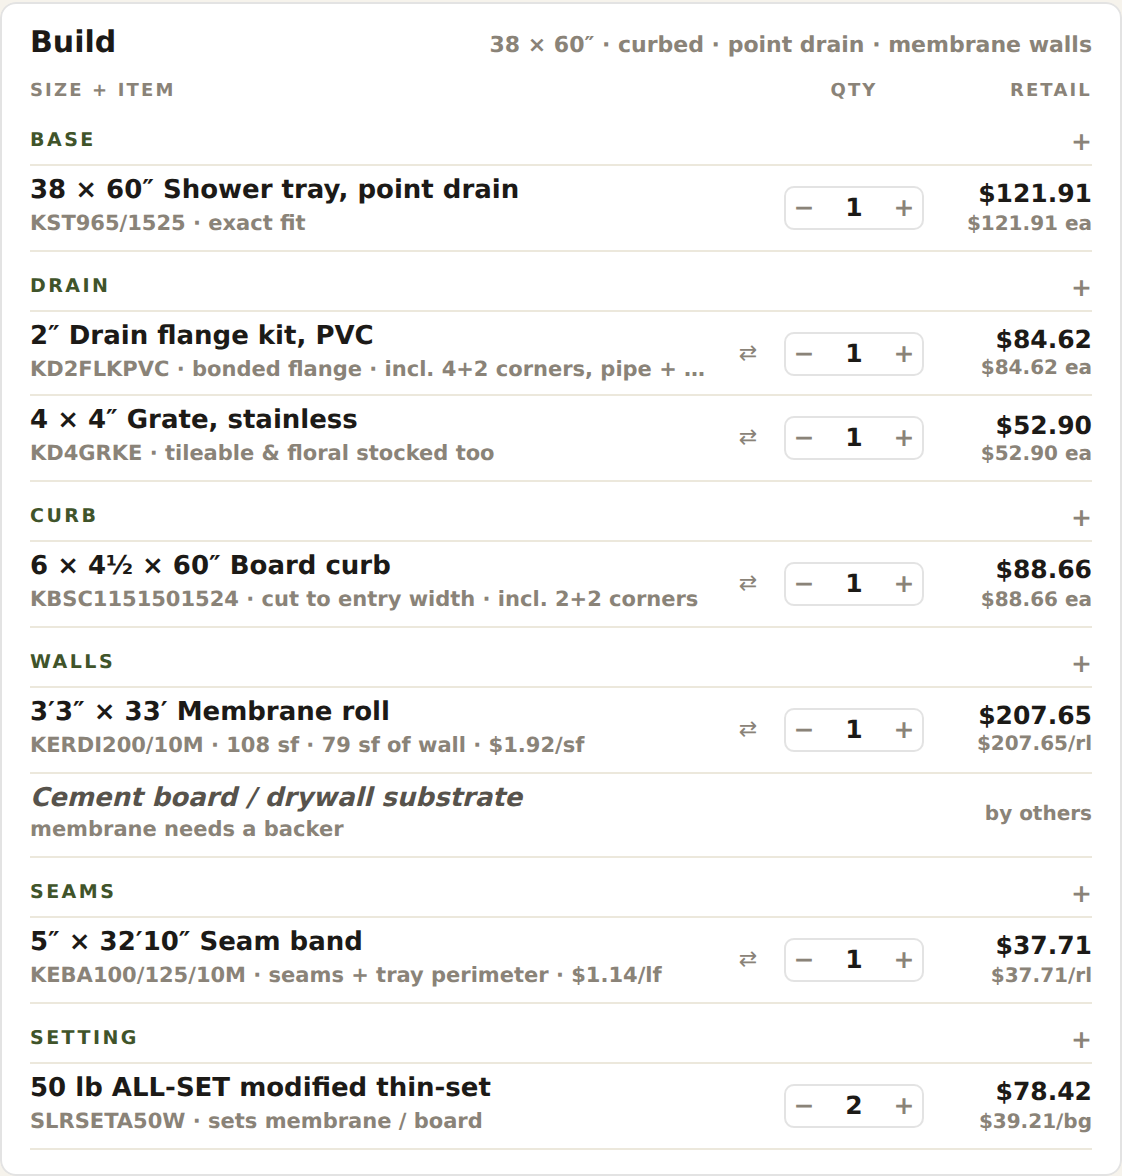
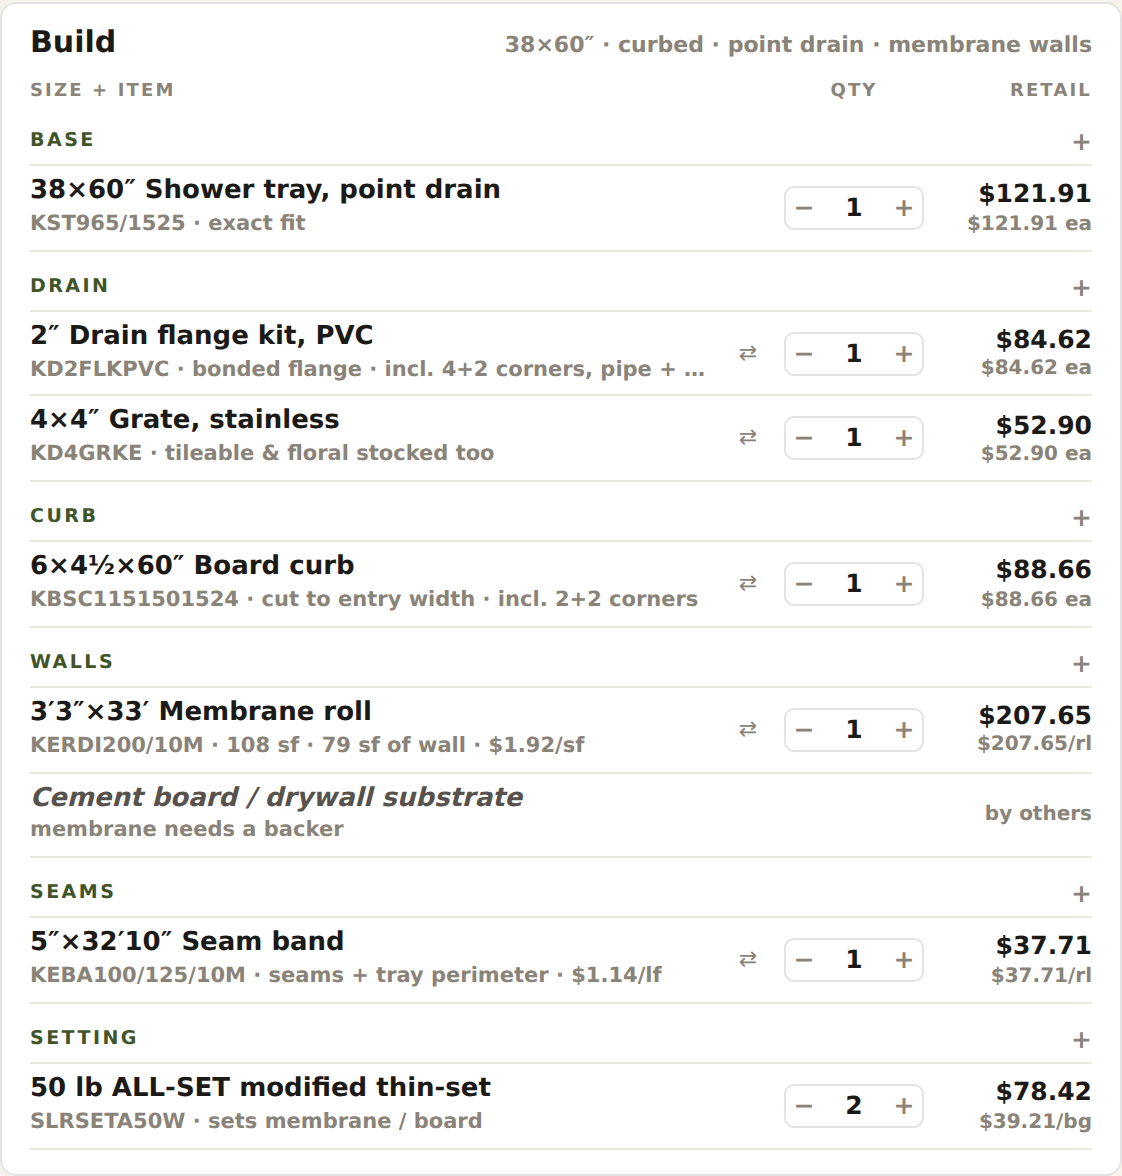
Shower config cleanup mockup: tight sizes (4×4, no spaces around ×)
Claude-Session: https://claude.ai/code/session_01LdCZ3DDr4vN87b9fh1H2j3

diff --git a/.scratch/160_shower-config-cleanup/mockups/cleanup-2026-09-28.html b/.scratch/160_shower-config-cleanup/mockups/cleanup-2026-09-28.html
@@ -156,7 +156,7 @@ section{display:flex;flex-direction:column;gap:14px}
       <div class="scroll"><div class="app kits" id="schKits"></div></div>
       <ul class="notes">
         <li><b>Wall system</b> is one row, "Membrane | Board", with no "KERDI-". The two paragraphs move behind the <span class="help">?</span>.</li>
-        <li><b>Sizes</b> use wedi's form: nominal in feet, bold (3′2″ × 5′), then inches in grey (38 × 60). The list is sorted small to large.</li>
+        <li><b>Sizes</b> use wedi's form: nominal in feet, bold (3′2″×5′), then inches in grey (38×60). The list is sorted small to large.</li>
         <li><b>Linear drain side</b> becomes a small tag like wedi's OFFSET tag, so the row stays on one line.</li>
         <li><b>SKU and description</b> leave the list. The build column still shows the SKU, and hovering a row shows it too.</li>
         <li><b>Stock</b> gets the same dot as wedi. Special-order rows are grey with a hollow dot, so the "stock" pill goes.</li>
@@ -183,7 +183,7 @@ section{display:flex;flex-direction:column;gap:14px}
   <div class="sec-head">
     <div class="eyebrow">2 · The build column</div>
     <h2>Every line leads with its size</h2>
-    <p>Today the size is buried in the name ("Tray 38"×60"") or the grey sub-line ("3'3"×33' = 108 sf"), and some lines have none at all. After: the brand words come off the name, and every line starts with its size in bold, then the item name, read as one phrase ("5″ × 32′10″ Seam band"). Qty stays where it is, on the right. Both configurators use the same row.</p>
+    <p>Today the size is buried in the name ("Tray 38"×60"") or the grey sub-line ("3'3"×33' = 108 sf"), and some lines have none at all. After: the brand words come off the name, and every line starts with its size in bold, then the item name, read as one phrase ("5″×32′10″ Seam band"). Qty stays where it is, on the right. Both configurators use the same row.</p>
   </div>
   <div class="pair">
     <div class="side before">
@@ -205,7 +205,7 @@ section{display:flex;flex-direction:column;gap:14px}
       <div class="scroll"><div class="app build" id="wediBuild"></div></div>
       <ul class="notes">
         <li><b>Name</b> is what the part is: Shower base, Lean curb, Seam band. Subliner Dry, S-DRY, KERDI and the ® / ™ marks go.</li>
-        <li><b>Size</b> leads the name in bold, so the line reads as one: 42 × 60″ Shower base, 48 × 96 × ½″ Building panel, 25 lb PRO-SET tile adhesive.</li>
+        <li><b>Size</b> leads the name in bold, so the line reads as one: 42×60″ Shower base, 48×96×½″ Building panel, 25 lb PRO-SET tile adhesive.</li>
         <li><b>Grey line</b> keeps the SKU and the working notes (sf of wall, $/sf, "cut to entry width").</li>
       </ul>
     </div>
@@ -245,7 +245,7 @@ section{display:flex;flex-direction:column;gap:14px}
   <div class="rules">
     <div class="rule"><h4>Brand words come off item names</h4><p><span class="strike">wedi®</span> <span class="strike">™</span> <span class="strike">Schluter</span> <span class="strike">KERDI-</span> <span class="strike">S-DRY</span> <span class="strike">Subliner Dry</span>. Product names that tell two things apart stay: ALL-SET, PRO-SET, Building panel.</p></div>
     <div class="rule"><h4>Size leads the item name</h4><p>In the build column and in every Compare cell, bold, one space before the name. Read from the item's size on the price sheet. Blank when the sheet gives none.</p></div>
-    <div class="rule"><h4>One size format on both kit lists</h4><p>Bold nominal in feet, then inches in grey, smallest first: 3′2″ × 5′ 38 × 60.</p></div>
+    <div class="rule"><h4>One size format on both kit lists</h4><p>Bold nominal in feet, then inches in grey, smallest first: 3′2″×5′ 38×60.</p></div>
     <div class="rule"><h4>Standing help goes behind a ?</h4><p>"Every price below is the full kit…" and "click one — the build column fills…" become <span class="help">?</span> tips on the heading, per ADR 0045. Warnings stay inline.</p></div>
     <div class="rule"><h4>Same stock signal on both</h4><p>Moss dot means stocked. Grey text with a hollow dot means special order. The Schluter "stock" pill goes.</p></div>
     <div class="rule"><h4>Display only</h4><p>Nothing about pricing, the solver or what's stored changes. This is how rows read inside the two configurators.</p></div>
@@ -259,7 +259,7 @@ section{display:flex;flex-direction:column;gap:14px}
   </div>
   <ol class="q">
     <li><b>Brand words come off names inside the configurators only.</b> Lines added to the job, the print and order entry keep the full name ("Schluter KERDI-BAND 5" seam band").</li>
-    <li><b>Kit-list sizes use wedi's form:</b> bold feet, then inches in grey (3′2″ × 5′ 38 × 60).</li>
+    <li><b>Kit-list sizes use wedi's form:</b> bold feet, then inches in grey (3′2″×5′ 38×60).</li>
     <li><b>SKU is hidden on the kit list.</b> Hovering a row shows it; the build column still prints it on the grey line.</li>
   </ol>
 </section>
@@ -280,37 +280,37 @@ const group = (cap, aside, rows) => `<div class="kgroup"><div class="cap">${cap}
 $("schKits").innerHTML =
   `<div class="top"><span class="cap">Wall system</span><span class="seg"><span class="on">Membrane</span><span>Board</span></span><span class="help" title="Every price below is the full kit under this wall system. Flip to compare. Click a kit to fill the build column; factory boxed kits (special order) live in Browse → Factory kits.">?</span></div>` +
   group("Point drain", "", [
-    ["3′2″ × 5′", "38 × 60", "$671.87", {sku: "KST965/1525"}],
-    ["4′ × 5′", "48 × 60", "$826.17", {sku: "KST1220/1525"}],
-    ["4′ × 6′", "48 × 72", "$927.80", {sku: "KST1220/1830", sel: 1}],
-    ["5′ × 5′", "60 × 60", "$1,072.41", {sku: "KST1525"}],
-    ["6′ × 6′", "72 × 72", "$1,181.81", {sku: "KST1830"}],
+    ["3′2″×5′", "38×60", "$671.87", {sku: "KST965/1525"}],
+    ["4′×5′", "48×60", "$826.17", {sku: "KST1220/1525"}],
+    ["4′×6′", "48×72", "$927.80", {sku: "KST1220/1830", sel: 1}],
+    ["5′×5′", "60×60", "$1,072.41", {sku: "KST1525"}],
+    ["6′×6′", "72×72", "$1,181.81", {sku: "KST1830"}],
   ]) +
   group("Curbless", "thin, no lip", [
-    ["2′8″ × 3′2″", "32 × 38", "$519.44", {sku: "KST965/810BF"}],
-    ["3′ × 3′", "36 × 36", "$490.90", {sku: "KST915BF"}],
-    ["3′2″ × 3′2″", "38 × 38", "$501.26", {sku: "KST965BF"}],
-    ["3′ × 4′", "36 × 48", "$601.36", {sku: "KST915/1220BF"}],
-    ["4′ × 4′", "48 × 48", "$572.83", {sku: "KST1220BF"}],
+    ["2′8″×3′2″", "32×38", "$519.44", {sku: "KST965/810BF"}],
+    ["3′×3′", "36×36", "$490.90", {sku: "KST915BF"}],
+    ["3′2″×3′2″", "38×38", "$501.26", {sku: "KST965BF"}],
+    ["3′×4′", "36×48", "$601.36", {sku: "KST915/1220BF"}],
+    ["4′×4′", "48×48", "$572.83", {sku: "KST1220BF"}],
   ]) +
-  group("Offset drain", "", [["3′2″ × 5′", "38 × 60", "$671.87", {sku: "KST965/1525S"}]]) +
+  group("Offset drain", "", [["3′2″×5′", "38×60", "$671.87", {sku: "KST965/1525S"}]]) +
   group("Linear drain", "", [
-    ["3′ × 4′7″", "36 × 55", "$1,000.68", {so: 1, tag: "DRAIN 36″ SIDE", sku: "SLRKSLT9151395S"}],
-    ["3′ × 6′", "36 × 72", "$1,294.28", {so: 1, tag: "DRAIN 36″ SIDE", sku: "SLRKSLT9151830S"}],
-    ["3′2″ × 6′4″", "38 × 76", "$1,294.28", {tag: "DRAIN 38″ SIDE", sku: "KSLT965/1930S"}],
-    ["3′2″ × 6′4″", "38 × 76", "$317.61", {so: 1, tag: "DRAIN 76″ SIDE", sku: "SLRKSLT1930965S"}],
-    ["3′3″ × 3′3″", "39 × 39", "$194.64", {so: 1, sku: "SLRKSLT1000S"}],
-    ["4′ × 4′", "48 × 48", "$1,005.71", {so: 1, sku: "SLRKSLT1220S"}],
-    ["4′7″ × 4′7″", "55 × 55", "$1,321.55", {sku: "KSLT1395S"}],
+    ["3′×4′7″", "36×55", "$1,000.68", {so: 1, tag: "DRAIN 36″ SIDE", sku: "SLRKSLT9151395S"}],
+    ["3′×6′", "36×72", "$1,294.28", {so: 1, tag: "DRAIN 36″ SIDE", sku: "SLRKSLT9151830S"}],
+    ["3′2″×6′4″", "38×76", "$1,294.28", {tag: "DRAIN 38″ SIDE", sku: "KSLT965/1930S"}],
+    ["3′2″×6′4″", "38×76", "$317.61", {so: 1, tag: "DRAIN 76″ SIDE", sku: "SLRKSLT1930965S"}],
+    ["3′3″×3′3″", "39×39", "$194.64", {so: 1, sku: "SLRKSLT1000S"}],
+    ["4′×4′", "48×48", "$1,005.71", {so: 1, sku: "SLRKSLT1220S"}],
+    ["4′7″×4′7″", "55×55", "$1,321.55", {sku: "KSLT1395S"}],
   ]);
 
 $("wediKits").innerHTML =
   `<div class="top"><span class="cap">Wall system</span><span class="seg"><span class="on">Building panel</span><span>Membrane</span></span><span class="help" title="Every price below is the full kit under this wall system.">?</span></div>` +
   group("Curbed", "", [
-    ["3′ × 3′", "36 × 36", "$1,109.97"], ["3′ × 4′", "36 × 48", "$1,255.53"], ["3′ × 5′", "36 × 60", "$1,363.96"],
-    ["3′ × 6′", "36 × 72", "$1,646.17", {tag: "OFFSET"}], ["3′ × 6′", "36 × 72", "$1,646.17"],
-    ["3′6″ × 3′6″", "42 × 42", "$1,244.58"], ["3′6″ × 5′", "42 × 60", "$1,502.94"], ["3′6″ × 6′", "42 × 72", "$1,814.45"],
-    ["4′ × 4′", "48 × 48", "$1,442.36"], ["4′ × 5′", "48 × 60", "$1,656.06"],
+    ["3′×3′", "36×36", "$1,109.97"], ["3′×4′", "36×48", "$1,255.53"], ["3′×5′", "36×60", "$1,363.96"],
+    ["3′×6′", "36×72", "$1,646.17", {tag: "OFFSET"}], ["3′×6′", "36×72", "$1,646.17"],
+    ["3′6″×3′6″", "42×42", "$1,244.58"], ["3′6″×5′", "42×60", "$1,502.94"], ["3′6″×6′", "42×72", "$1,814.45"],
+    ["4′×4′", "48×48", "$1,442.36"], ["4′×5′", "48×60", "$1,656.06"],
   ]);
 
 // ---- build columns ----
@@ -323,29 +323,29 @@ const cat = (name, rows) => `<div class="bcat"><span class="cap">${name}</span><
 const buildHead = (sum) => `<div class="bhead"><h3>Build</h3><span class="sum">${sum}</span></div>` +
   `<div class="colhead"><span>Size + item</span><span></span><span style="text-align:center">Qty</span><span class="r">Retail</span></div>`;
 
-$("schBuild").innerHTML = buildHead("38 × 60″ · curbed · point drain · membrane walls") +
-  cat("Base", [["Shower tray, point drain", "KST965/1525 · exact fit", "38 × 60″", 0, 1, "$121.91", "$121.91 ea"]]) +
+$("schBuild").innerHTML = buildHead("38×60″ · curbed · point drain · membrane walls") +
+  cat("Base", [["Shower tray, point drain", "KST965/1525 · exact fit", "38×60″", 0, 1, "$121.91", "$121.91 ea"]]) +
   cat("Drain", [
     ["Drain flange kit, PVC", "KD2FLKPVC · bonded flange · incl. 4+2 corners, pipe + valve seals", "2″", 1, 1, "$84.62", "$84.62 ea"],
-    ["Grate, stainless", "KD4GRKE · tileable & floral stocked too", "4 × 4″", 1, 1, "$52.90", "$52.90 ea"],
+    ["Grate, stainless", "KD4GRKE · tileable & floral stocked too", "4×4″", 1, 1, "$52.90", "$52.90 ea"],
   ]) +
-  cat("Curb", [["Board curb", "KBSC1151501524 · cut to entry width · incl. 2+2 corners", "6 × 4½ × 60″", 1, 1, "$88.66", "$88.66 ea"]]) +
+  cat("Curb", [["Board curb", "KBSC1151501524 · cut to entry width · incl. 2+2 corners", "6×4½×60″", 1, 1, "$88.66", "$88.66 ea"]]) +
   cat("Walls", [
-    ["Membrane roll", "KERDI200/10M · 108 sf · 79 sf of wall · $1.92/sf", "3′3″ × 33′", 1, 1, "$207.65", "$207.65/rl"],
+    ["Membrane roll", "KERDI200/10M · 108 sf · 79 sf of wall · $1.92/sf", "3′3″×33′", 1, 1, "$207.65", "$207.65/rl"],
     ["Cement board / drywall substrate", "membrane needs a backer", "", 0, 0, "", "", {byo: 1}],
   ]) +
-  cat("Seams", [["Seam band", "KEBA100/125/10M · seams + tray perimeter · $1.14/lf", "5″ × 32′10″", 1, 1, "$37.71", "$37.71/rl"]]) +
+  cat("Seams", [["Seam band", "KEBA100/125/10M · seams + tray perimeter · $1.14/lf", "5″×32′10″", 1, 1, "$37.71", "$37.71/rl"]]) +
   cat("Setting", [["ALL-SET modified thin-set", "SLRSETA50W · sets membrane / board", "50 lb", 0, 2, "$78.42", "$39.21/bg"]]);
 
-$("wediBuild").innerHTML = buildHead("42 × 60″ base · drain at 30″, 19″ · building panel walls") +
-  cat("Base", [["Shower base", "1504160 · 1 37/64″ thick", "42 × 60″", 0, 1, "$704.99", "$704.99 ea"]]) +
-  cat("Drain", [["Drain cover, stainless", "1504181", "4 × 4″", 1, 1, "$67.30", "$67.30 ea"]]) +
+$("wediBuild").innerHTML = buildHead("42×60″ base · drain at 30″, 19″ · building panel walls") +
+  cat("Base", [["Shower base", "1504160 · 1 37/64″ thick", "42×60″", 0, 1, "$704.99", "$704.99 ea"]]) +
+  cat("Drain", [["Drain cover, stainless", "1504181", "4×4″", 1, 1, "$67.30", "$67.30 ea"]]) +
   cat("Curb", [["Lean curb", "29118", "60″", 1, 1, "$53.99", "$53.99 ea"]]) +
   cat("Walls", [
     ["Fastener kit", "28960 · 1 5/8″ screws + washers", "100 ct", 1, 1, "$32.83", "$32.83 ea"],
-    ["Building panel", "28862 · 0 vertical seams · $3.64/sf", "48 × 60 × ½″", 0, 1, "$72.74", "$72.74 ea"],
-    ["Building panel", "47828 · panel plan · $3.68/sf", "48 × 96 × ½″", 0, 2, "$235.50", "$117.75 ea"],
-    ["Building panel", "47700 · panel plan · $3.64/sf", "36 × 60 × ½″", 0, 1, "$54.66", "$54.66 ea"],
+    ["Building panel", "28862 · 0 vertical seams · $3.64/sf", "48×60×½″", 0, 1, "$72.74", "$72.74 ea"],
+    ["Building panel", "47828 · panel plan · $3.68/sf", "48×96×½″", 0, 2, "$235.50", "$117.75 ea"],
+    ["Building panel", "47700 · panel plan · $3.64/sf", "36×60×½″", 0, 1, "$54.66", "$54.66 ea"],
   ]) +
   cat("Seams", [
     ["Joint sealant", "29647 · 1.2 oz per ft² · 95.2 oz", "20 oz", 1, 5, "$144.15", "$28.83 ea"],
@@ -368,23 +368,23 @@ const heads = [
 const it = (q, n, z, p) => ({ q, n, z, p });
 const rows = [
   ["g", "Base"],
-  ["Tray", [[it(0, "Shower base", "42 × 60″", "$704.99")], [it(0, "Shower base", "38 × 64″", "$175.00")], [it(0, "Tray, point drain", "38 × 60″", "$121.91")], [it(0, "Tray, point drain", "38 × 60″", "$121.91")]]],
+  ["Tray", [[it(0, "Shower base", "42×60″", "$704.99")], [it(0, "Shower base", "38×64″", "$175.00")], [it(0, "Tray, point drain", "38×60″", "$121.91")], [it(0, "Tray, point drain", "38×60″", "$121.91")]]],
   ["g", "Drain"],
   ["Drain body", [null, [it(0, "Bonding flange drain", "", "$49.00")], null, null]],
-  ["Grate / cover", [[it(0, "Drain cover, stainless", "4 × 4″", "$67.30")], [it(0, "Drain cover, stainless", "3¾ × 3¾″", "$59.00")], [it(0, "Grate, tileable", "4 × 4″", "$52.90")], [it(0, "Grate, stainless", "4 × 4″", "$52.90")]]],
+  ["Grate / cover", [[it(0, "Drain cover, stainless", "4×4″", "$67.30")], [it(0, "Drain cover, stainless", "3¾×3¾″", "$59.00")], [it(0, "Grate, tileable", "4×4″", "$52.90")], [it(0, "Grate, stainless", "4×4″", "$52.90")]]],
   ["Flange", [null, null, [it(0, "Drain flange kit, PVC", "2″", "$84.62")], [it(0, "Drain flange kit, PVC", "2″", "$84.62")]]],
   ["g", "Curb"],
-  ["Curb", [[it(0, "Lean curb", "60″", "$53.99")], [it(0, "Shower curb", "4½ × 3½ × 72″", "$99.00")], [it(0, "Board curb", "6 × 4½ × 60″", "$88.66")], [it(0, "Board curb", "6 × 4½ × 60″", "$88.66")]]],
+  ["Curb", [[it(0, "Lean curb", "60″", "$53.99")], [it(0, "Shower curb", "4½×3½×72″", "$99.00")], [it(0, "Board curb", "6×4½×60″", "$88.66")], [it(0, "Board curb", "6×4½×60″", "$88.66")]]],
   ["g", "Walls"],
   ["Wall board", [
-    [it(0, "Fastener kit", "100 ct", "$32.83"), it(0, "Building panel", "48 × 60 × ½″", "$72.74"), it(2, "Building panel", "48 × 96 × ½″", "$235.50"), it(0, "Building panel", "36 × 60 × ½″", "$54.66")],
+    [it(0, "Fastener kit", "100 ct", "$32.83"), it(0, "Building panel", "48×60×½″", "$72.74"), it(2, "Building panel", "48×96×½″", "$235.50"), it(0, "Building panel", "36×60×½″", "$54.66")],
     "byo",
-    [it(2, "Board", "48 × 64 × ½″", "$148.76"), it(2, "Board", "48 × 96 × ½″", "$223.08"), it(2, "Board screws + washers", "", "$47.46")],
+    [it(2, "Board", "48×64×½″", "$148.76"), it(2, "Board", "48×96×½″", "$223.08"), it(2, "Board screws + washers", "", "$47.46")],
     "byo",
   ]],
-  ["Wall membrane", [null, [it(0, "Membrane, XL roll", "80″ × 16′", "$189.00")], null, [it(0, "Membrane roll", "3′3″ × 33′", "$207.65")]]],
+  ["Wall membrane", [null, [it(0, "Membrane, XL roll", "80″×16′", "$189.00")], null, [it(0, "Membrane roll", "3′3″×33′", "$207.65")]]],
   ["g", "Seams"],
-  ["Seam / band", [[it(5, "Joint sealant", "20 oz", "$144.15")], [it(0, "Seam tape", "", "$39.80")], [it(0, "Seam band", "5″ × 32′10″", "$37.71")], [it(0, "Seam band", "5″ × 32′10″", "$37.71")]]],
+  ["Seam / band", [[it(5, "Joint sealant", "20 oz", "$144.15")], [it(0, "Seam tape", "", "$39.80")], [it(0, "Seam band", "5″×32′10″", "$37.71")], [it(0, "Seam band", "5″×32′10″", "$37.71")]]],
   ["Corners", [
     [it(0, "Mixing valve seal", "", "$13.82"), it(0, "Pipe seal", "", "$12.38")],
     [it(2, "Inside corner 90°", "2 pc", "$32.50"), it(0, "Outside corner 90°", "2 pc", "$16.25"), it(0, "Mixing valve collar", "", "$14.25"), it(0, "Shower pipe collar", "", "$10.50")],
@@ -402,7 +402,7 @@ const cellHtml = (c) => c === "byo" ? `<div class="cell"><span class="byo">Cemen
   : !c ? `<div class="cell"><span class="none">—</span></div>`
   : `<div class="cell">${c.map((x) => `<div class="ci"><span class="qn">${x.q || 1}</span><span class="n">${x.z ? `<span class="z">${x.z}</span> ` : ""}${x.n}</span><span class="p">${x.p}</span></div>`).join("")}</div>`;
 $("cmp").innerHTML = `<div class="cgrid">` +
-  `<div class="chead" style="padding-left:8px"><div class="cap" style="color:var(--faint)">60 × 38″</div><div style="font-size:11px;color:var(--muted);font-weight:600">curbed · point drain</div></div>` +
+  `<div class="chead" style="padding-left:8px"><div class="cap" style="color:var(--faint)">60×38″</div><div style="font-size:11px;color:var(--muted);font-weight:600">curbed · point drain</div></div>` +
   heads.map(([b, sys, tot, delta, cur]) => `<div class="chead${cur ? " cur" : ""}"><span class="brand ${b}">${b === W ? "WEDI" : "SCHLUTER"}</span><span class="sys">${sys}</span><div class="tot">${tot}<small>${delta}</small></div></div>`).join("") +
   `<div class="csub" style="grid-template-columns:1fr"><span></span></div>` +
   heads.map(() => `<div class="csub"><span class="qh">Qty</span><span>Size + item</span><span class="r">Price</span></div>`).join("") +

diff --git a/.scratch/160_shower-config-cleanup/ticket.md b/.scratch/160_shower-config-cleanup/ticket.md
@@ -46,4 +46,5 @@ compare-set-preview.html; afters are static HTML over the same fixture numbers.
 - v8 (current): size and item MERGED into one cell in both views — bold size,
   one space, the name ("48 × 96 × ½″ Building panel"). Compare = Qty | Size +
   item | Price; the build column keeps its qty stepper on the right.
+  v9: no spaces around × in any size (4×4″, 48×96×½″).
   Waiting on approval.
